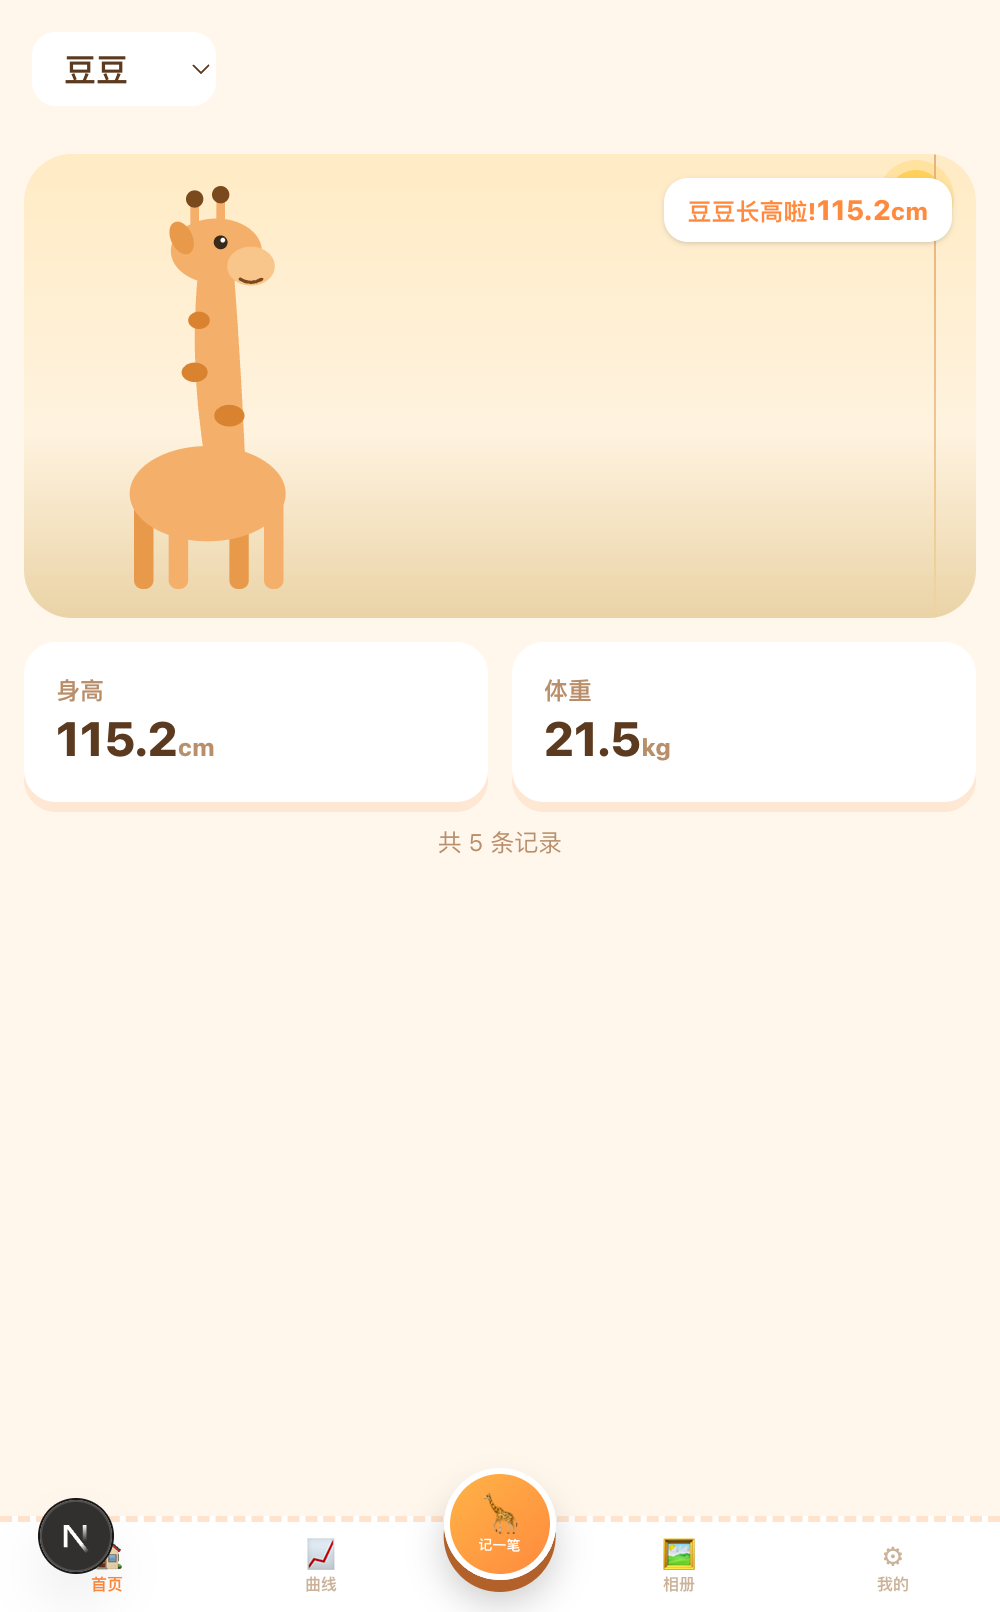
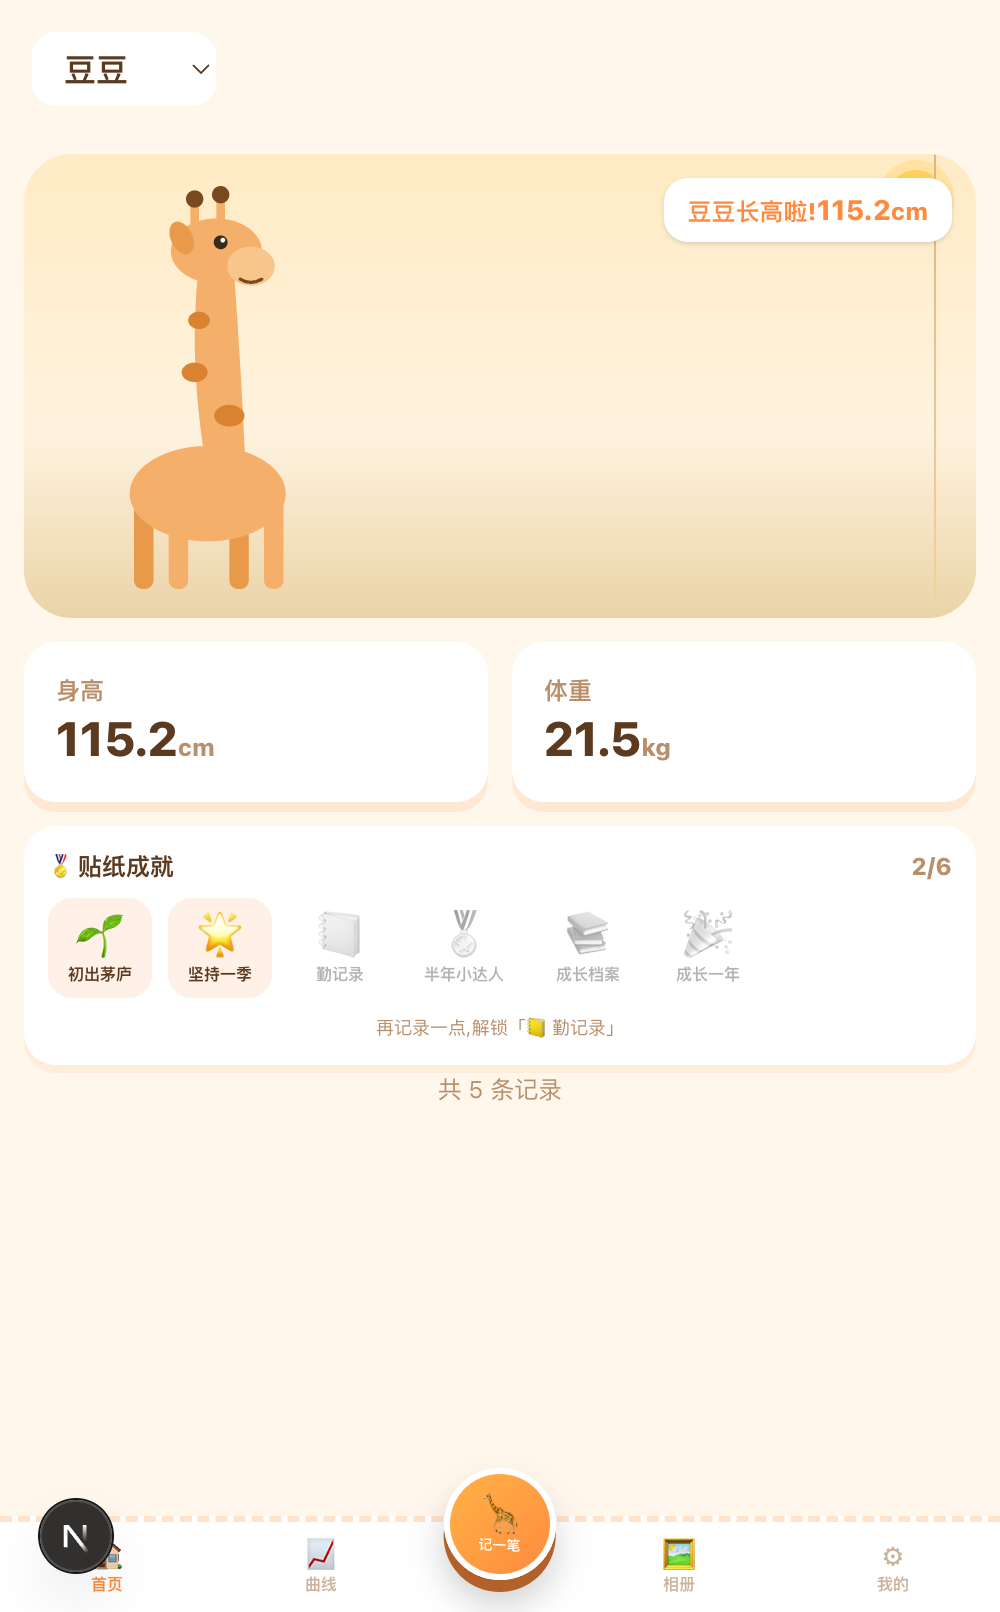
feat(stickers): 贴纸成就系统(按记录条数/月份解锁)+ 首页展示
lib/stickers(TDD,6 测试):🌱/🌟/📒/🏅/📚/🎉 六枚;首页贴纸条已得高亮、未得灰显 + 下一个目标进度。

diff --git a/src/lib/stickers.ts b/src/lib/stickers.ts
@@ -1,0 +1,53 @@
+export type StickerKind = 'records' | 'months';
+
+export interface Sticker {
+  id: string;
+  emoji: string;
+  name: string;
+  desc: string;
+  kind: StickerKind;
+  threshold: number;
+}
+
+/** 贴纸成就:按「累计记录条数」和「不同记录月份」解锁。 */
+export const STICKERS: Sticker[] = [
+  { id: 'first', emoji: '🌱', name: '初出茅庐', desc: '第一次记录', kind: 'records', threshold: 1 },
+  { id: 'm3', emoji: '🌟', name: '坚持一季', desc: '记录满 3 个月', kind: 'months', threshold: 3 },
+  { id: 'r10', emoji: '📒', name: '勤记录', desc: '累计 10 条', kind: 'records', threshold: 10 },
+  { id: 'm6', emoji: '🏅', name: '半年小达人', desc: '记录满 6 个月', kind: 'months', threshold: 6 },
+  { id: 'r50', emoji: '📚', name: '成长档案', desc: '累计 50 条', kind: 'records', threshold: 50 },
+  { id: 'm12', emoji: '🎉', name: '成长一年', desc: '记录满 12 个月', kind: 'months', threshold: 12 },
+];
+
+interface RecordLike {
+  date: string;
+}
+
+/** 已解锁的贴纸(按 STICKERS 顺序)。 */
+export function earnedStickers(records: RecordLike[]): Sticker[] {
+  const recordCount = records.length;
+  const months = new Set(records.map((r) => r.date.slice(0, 7))).size;
+  return STICKERS.filter((s) =>
+    s.kind === 'records' ? recordCount >= s.threshold : months >= s.threshold,
+  );
+}
+
+export interface StickerSummary {
+  records: number;
+  months: number;
+  earned: Sticker[];
+  /** 下一个未解锁的贴纸(进度激励用)。 */
+  next: Sticker | null;
+}
+
+export function summarize(records: RecordLike[]): StickerSummary {
+  const earned = earnedStickers(records);
+  const earnedIds = new Set(earned.map((s) => s.id));
+  const next = STICKERS.find((s) => !earnedIds.has(s.id)) ?? null;
+  return {
+    records: records.length,
+    months: new Set(records.map((r) => r.date.slice(0, 7))).size,
+    earned,
+    next,
+  };
+}

diff --git a/src/app/(app)/home/page.tsx b/src/app/(app)/home/page.tsx
@@ -5,6 +5,7 @@ import { AppShell } from '@/components/AppShell';
 import { GrowthWall } from '@/components/GrowthWall';
 import { useRecordSheet } from '@/components/RecordSheet';
 import { useTheme } from '@/lib/useTheme';
+import { STICKERS, summarize } from '@/lib/stickers';
 
 type Child = {
   id: string;
@@ -45,6 +46,7 @@ export default function HomePage() {
   const active = children.find((c) => c.id === activeId);
   useTheme(active?.themeId);
   const latest = records.at(-1);
+  const stickers = summarize(records);
 
   return (
     <AppShell onRecord={() => activeId && open(activeId)}>
@@ -69,6 +71,8 @@ export default function HomePage() {
         <Stat label="身高" value={latest?.height} unit="cm" />
         <Stat label="体重" value={latest?.weight} unit="kg" />
       </div>
+
+      <StickerStrip stickers={stickers} />
 
       <p className="pb-6 text-center text-xs" style={{ color: 'var(--muted)' }}>
         共 {records.length} 条记录
@@ -99,6 +103,47 @@ function Stat({
           </span>
         )}
       </div>
+    </div>
+  );
+}
+
+function StickerStrip({ stickers }: { stickers: ReturnType<typeof summarize> }) {
+  const earnedIds = new Set(stickers.earned.map((s) => s.id));
+  return (
+    <div className="mx-3 mb-1 rounded-2xl bg-white p-3" style={{ boxShadow: '0 4px 0 rgba(255,138,61,.10)' }}>
+      <div className="mb-2 flex items-center justify-between text-xs font-extrabold" style={{ color: 'var(--ink)' }}>
+        <span>🏅 贴纸成就</span>
+        <span style={{ color: 'var(--muted)' }}>
+          {stickers.earned.length}/{STICKERS.length}
+        </span>
+      </div>
+      <div className="flex gap-2 overflow-x-auto pb-1">
+        {STICKERS.map((s) => {
+          const got = earnedIds.has(s.id);
+          return (
+            <div
+              key={s.id}
+              className="flex min-w-[52px] flex-col items-center rounded-xl px-2 py-1.5"
+              style={{
+                background: got ? 'var(--band)' : 'transparent',
+                opacity: got ? 1 : 0.4,
+                filter: got ? 'none' : 'grayscale(1)',
+              }}
+              title={s.desc}
+            >
+              <span className="text-2xl leading-none">{s.emoji}</span>
+              <span className="mt-0.5 text-[8px] font-bold" style={{ color: 'var(--ink)' }}>
+                {s.name}
+              </span>
+            </div>
+          );
+        })}
+      </div>
+      {stickers.next && (
+        <p className="mt-1 text-center text-[9px]" style={{ color: 'var(--muted)' }}>
+          再记录一点,解锁「{stickers.next.emoji} {stickers.next.name}」
+        </p>
+      )}
     </div>
   );
 }

diff --git a/src/lib/stickers.test.ts b/src/lib/stickers.test.ts
@@ -1,0 +1,45 @@
+import { describe, it, expect } from 'vitest';
+import { earnedStickers, STICKERS, summarize } from './stickers';
+
+const recs = (months: string[]) =>
+  months.map((m) => ({ id: m, date: `${m}-15`, height: 100, weight: 20 }));
+
+describe('stickers', () => {
+  it('无记录 → 不解锁任何贴纸', () => {
+    expect(earnedStickers([]).map((s) => s.id)).toEqual([]);
+  });
+
+  it('1 条记录 → 解锁 first(初出茅庐)', () => {
+    const ids = earnedStickers(recs(['2024-01'])).map((s) => s.id);
+    expect(ids).toContain('first');
+  });
+
+  it('3 个不同月份 → first + m3,不到 m6', () => {
+    const ids = earnedStickers(recs(['2024-01', '2024-05', '2024-09'])).map((s) => s.id);
+    expect(ids).toContain('first');
+    expect(ids).toContain('m3');
+    expect(ids).not.toContain('m6');
+  });
+
+  it('10 条记录 → 解锁 r10', () => {
+    const ten = Array.from({ length: 10 }, (_, i) => ({
+      id: String(i),
+      date: `2024-${String((i % 12) + 1).padStart(2, '0')}-01`,
+      height: 100,
+      weight: 20,
+    }));
+    expect(earnedStickers(ten).map((s) => s.id)).toContain('r10');
+  });
+
+  it('summarize 返回月数/条数/已得/下一个目标', () => {
+    const s = summarize(recs(['2024-01', '2024-02', '2024-03', '2024-04']));
+    expect(s.months).toBe(4);
+    expect(s.records).toBe(4);
+    expect(s.earned.length).toBeGreaterThan(0);
+    expect(s.next).toBeTruthy();
+  });
+
+  it('STICKERS 非空', () => {
+    expect(STICKERS.length).toBeGreaterThan(0);
+  });
+});